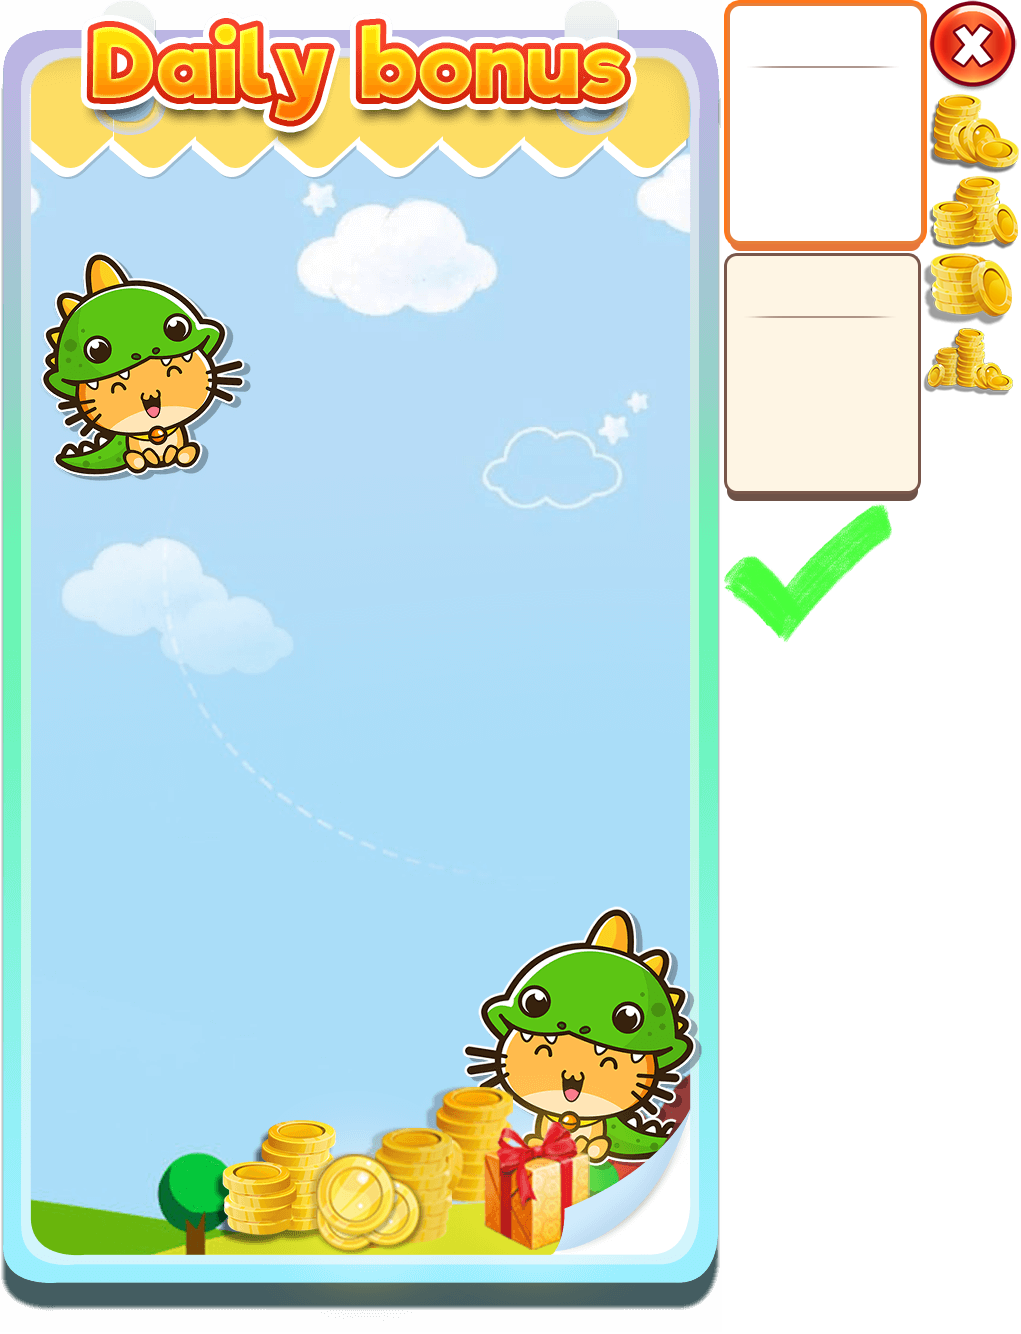
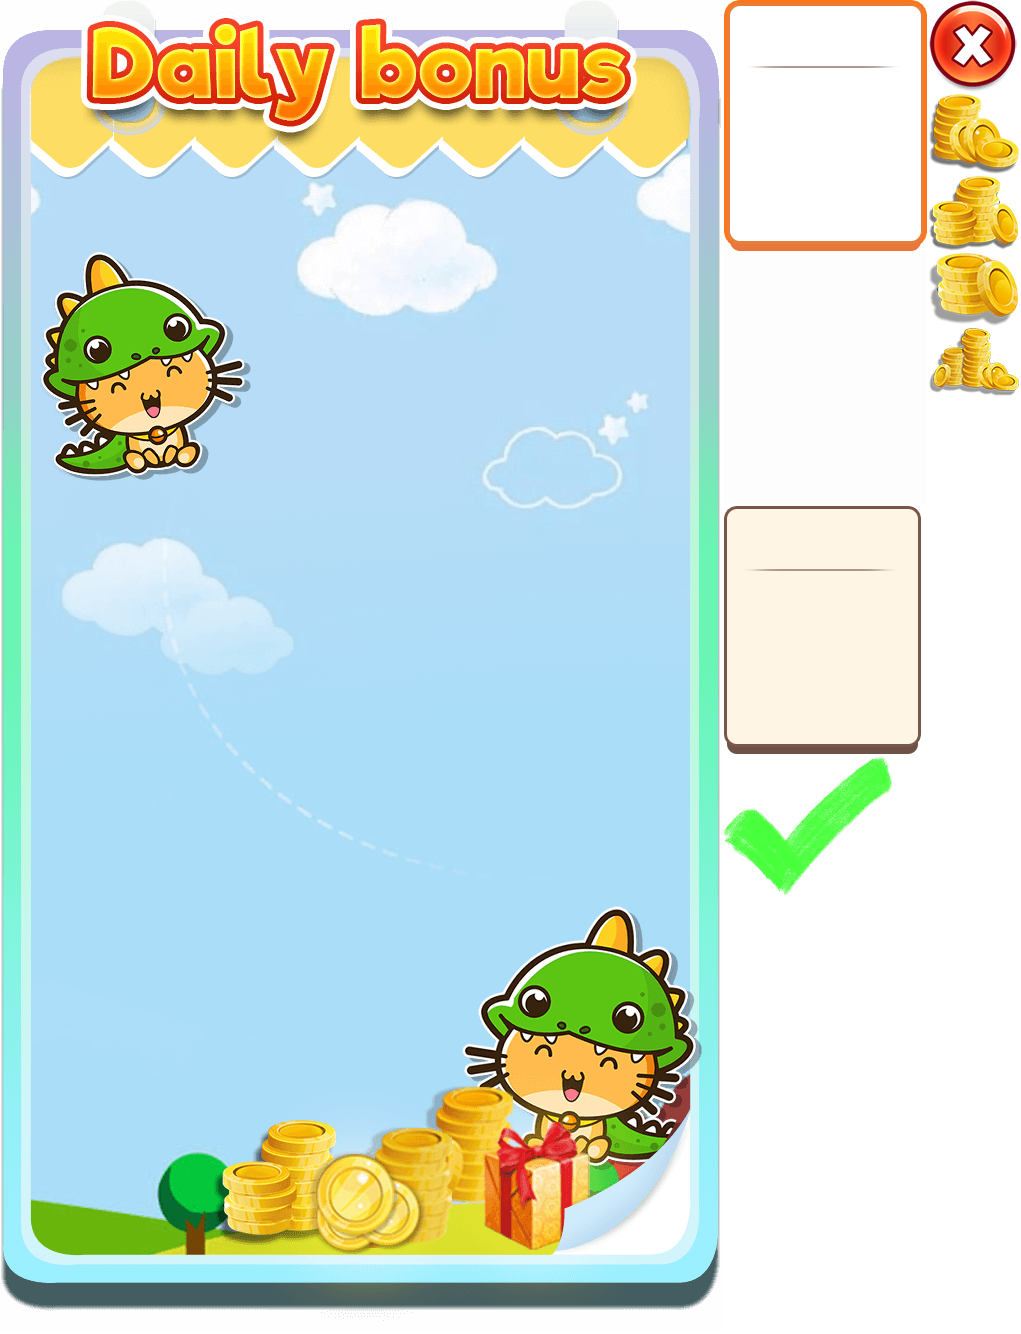
add click area

Changed region(s): [[0.6983, 0.1844, 1.0, 0.6762]]

diff --git a/src/popups/daily-bonus/daily-item/daily-item.component.ts b/src/popups/daily-bonus/daily-item/daily-item.component.ts
@@ -6,7 +6,7 @@ import { TextData, DailyBonus } from './../../../service/dinomao-game.module';
  * @Author: Wayne Yu
  * @Date: 2021-08-25 16:44:20
  * @LastEditors: Wayne Yu
- * @LastEditTime: 2021-08-26 11:46:21
+ * @LastEditTime: 2021-08-26 12:01:25
  */
 import { Component, Input, SimpleChanges } from '@angular/core';
 
@@ -20,6 +20,7 @@ export class DailyItemComponent extends UIFromParent {
   dailyItemBg!: BitmapData;
   coinIcon!: BitmapData;
   greenCheck!: BitmapData;
+  clickArea!: BitmapData;
   titleText!: TextData;
   coinText!: TextData;
   position: Point = new Point;
@@ -30,7 +31,7 @@ export class DailyItemComponent extends UIFromParent {
   isToday: boolean = false;
   
   get showHand(): boolean{
-    return this.isToday && !DailyBonus.instance.hasDailyBonus;
+    return this.isToday && !DailyBonus.instance.hasDailyBonus && !this.gettingDailyBonus;
   }
 
   get showMask(): boolean{
@@ -38,6 +39,10 @@ export class DailyItemComponent extends UIFromParent {
   }
 
   gettingDailyBonus: boolean = false; 
+
+  get canGetBonus(): boolean{
+    return this.isToday && !DailyBonus.instance.hasDailyBonus && !this.gettingDailyBonus;
+  }
 
   constructor() {
     super();
@@ -51,6 +56,7 @@ export class DailyItemComponent extends UIFromParent {
     coinLevel = Math.min( 4, coinLevel );
     this.coinIcon = this.textureData.getTexture( "gold_" + coinLevel, 24, 105 );
     this.greenCheck = this.textureData.getTexture( "Check sign", 14, 54 );
+    this.clickArea = this.textureData.getTexture( "blankMask" );
 
     this.titleText = {"color":0x81665a,"strokeColor":0,"rect":{"h":60,"y":10,"w":204,"x":0},"font":"arial","stroke":0,"size":35,"align":"center"};
     this.coinText = {"color":0xffc20f,"strokeColor":0xff3f3b,"rect":{"h":80,"y":105,"w":204,"x":125},"font":"FRAHV_0","stroke":3,"size":40,"align":"left"};

diff --git a/src/popups/daily-bonus/daily-item/daily-item.component.html b/src/popups/daily-bonus/daily-item/daily-item.component.html
@@ -4,7 +4,7 @@
  * @Author: Wayne Yu
  * @Date: 2021-08-25 16:44:20
  * @LastEditors: Wayne Yu
- * @LastEditTime: 2021-08-26 11:48:26
+ * @LastEditTime: 2021-08-26 11:59:19
 -->
 <div [style.top]="position.y+'px'" [style.left]="position.x+'px'">
   <app-image [imgData]="dailyItemBg"></app-image>
@@ -15,4 +15,5 @@
   <div class="passedMask" *ngIf="showMask"></div>
   <app-image [imgData]="greenCheck" *ngIf="showMask"></app-image>
   <img src="assets/daily_bonus/bones gif.gif" class="gettingDailyBonusGreenCheck" *ngIf="gettingDailyBonus">
+  <app-image-button [imgData]="clickArea" *ngIf="canGetBonus"></app-image-button>
 </div>
